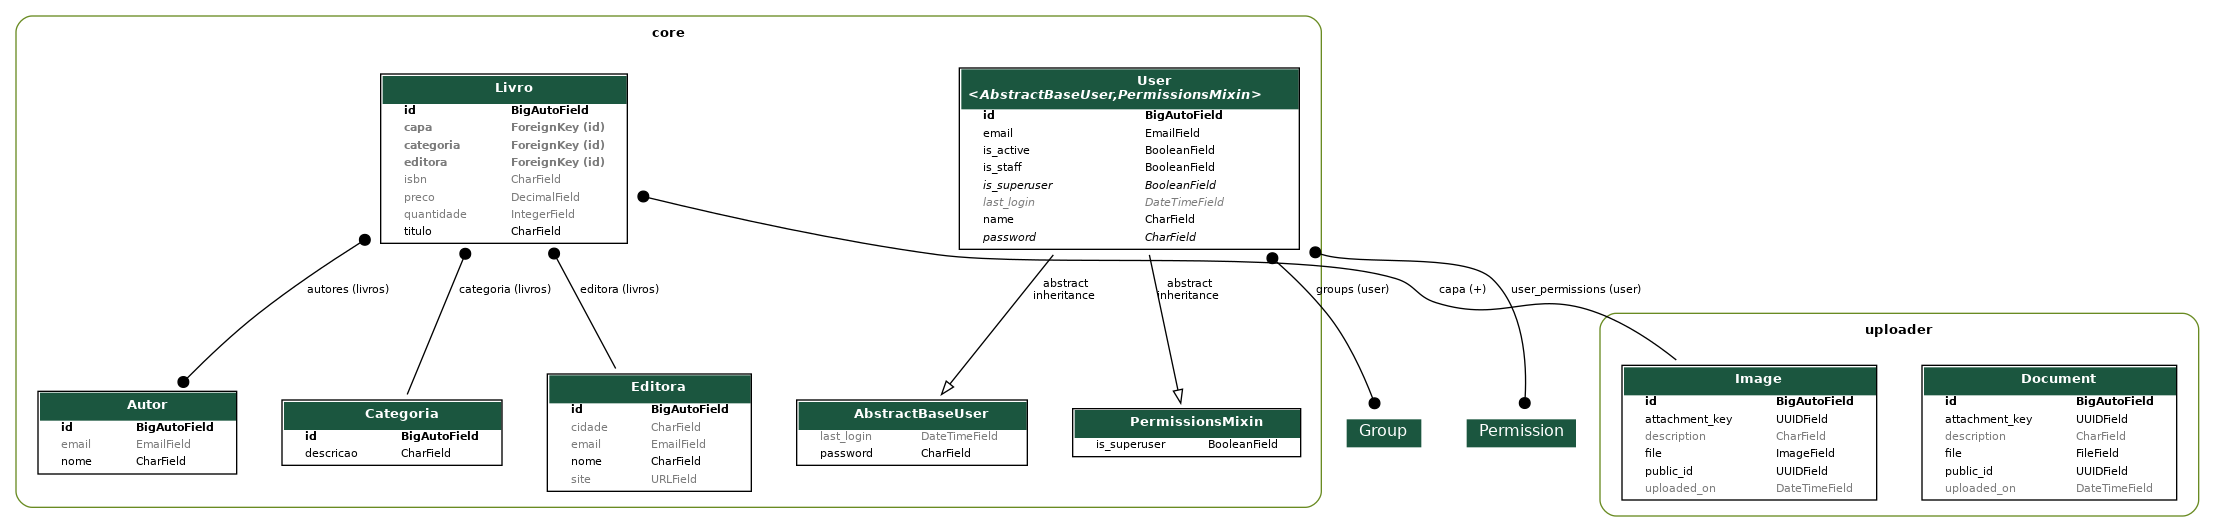
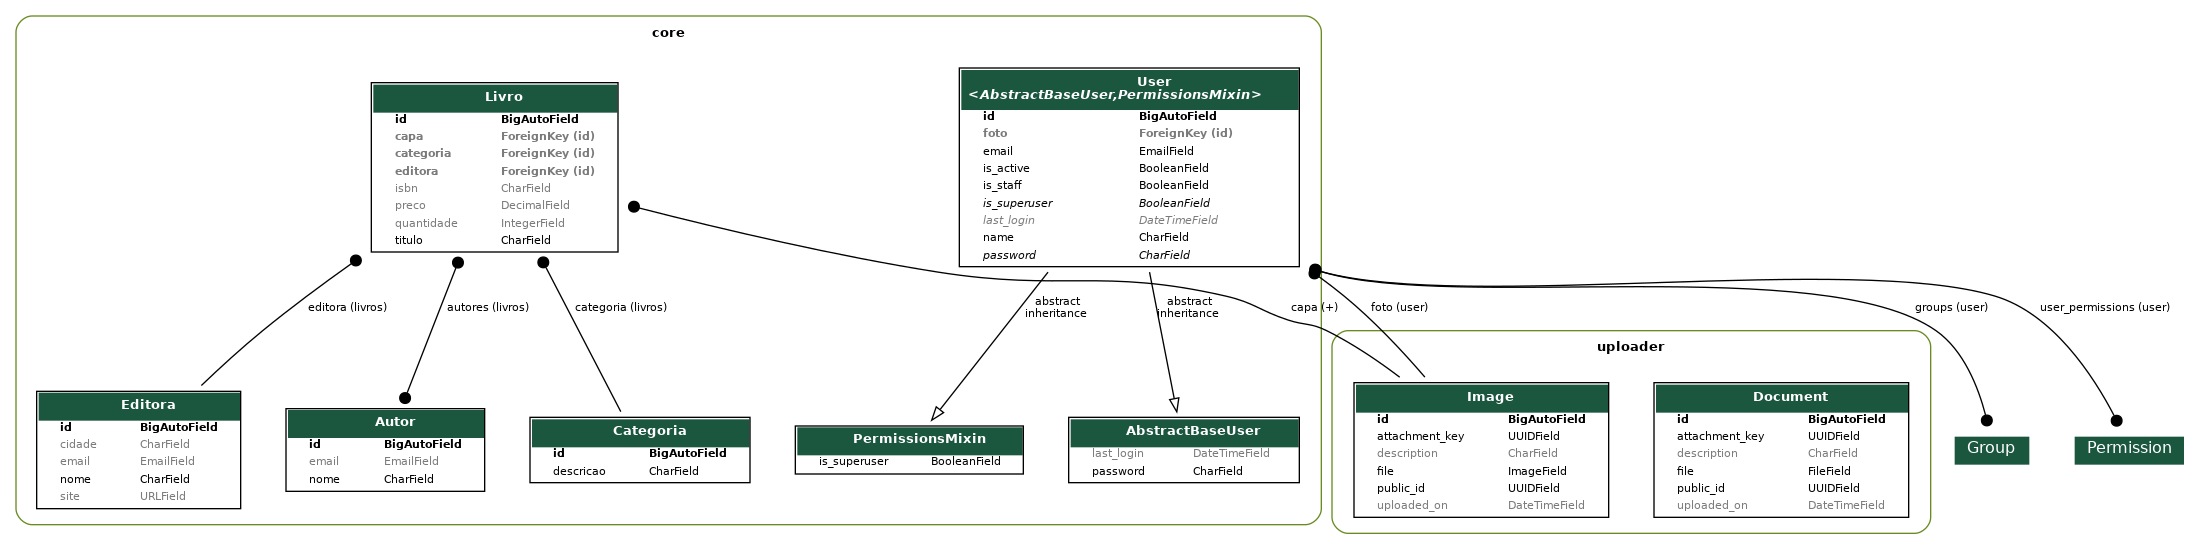
Foto de perfil do usuario

diff --git a/core/serializers/user.py b/core/serializers/user.py
@@ -1,9 +1,20 @@
-from rest_framework.serializers import ModelSerializer
+from rest_framework.serializers import ModelSerializer, SlugRelatedField
 
 from core.models import User
+from uploader.models import Image
+from uploader.serializers import ImageSerializer
 
 
 class UserSerializer(ModelSerializer):
+    foto_attachment_key = SlugRelatedField(
+        source="foto",
+        queryset=Image.objects.all(),
+        slug_field="attachment_key",
+        required=False,
+        write_only=True,
+    )
+    foto = ImageSerializer(required=False, read_only=True)
+
     class Meta:
         model = User
         fields = "__all__"

diff --git a/core/migrations/0022_user_foto.py b/core/migrations/0022_user_foto.py
@@ -1,0 +1,22 @@
+# Generated by Django 5.0.2 on 2024-08-26 14:00
+
+import django.db.models.deletion
+from django.db import migrations, models
+
+
+class Migration(migrations.Migration):
+
+    dependencies = [
+        ("core", "0021_alter_livro_categoria_alter_livro_editora"),
+        ("uploader", "0001_initial"),
+    ]
+
+    operations = [
+        migrations.AddField(
+            model_name="user",
+            name="foto",
+            field=models.ForeignKey(
+                blank=True, default=None, null=True, on_delete=django.db.models.deletion.SET_NULL, to="uploader.image"
+            ),
+        ),
+    ]

diff --git a/core/models/user.py b/core/models/user.py
@@ -9,6 +9,8 @@ from django.contrib.auth.models import (
 )
 from django.db import models
 
+from uploader.models import Image
+
 
 class UserManager(BaseUserManager):
     """Manager for users."""
@@ -41,6 +43,13 @@ class User(AbstractBaseUser, PermissionsMixin):
     name = models.CharField(max_length=255)
     is_active = models.BooleanField(default=True)
     is_staff = models.BooleanField(default=False)
+    foto = models.ForeignKey(
+        Image,
+        on_delete=models.SET_NULL,
+        null=True,
+        blank=True,
+        default=None,
+    )
 
     objects = UserManager()
 

diff --git a/core/admin.py b/core/admin.py
@@ -18,7 +18,7 @@ class UserAdmin(BaseUserAdmin):
     list_display = ["email", "name"]
     fieldsets = (
         (None, {"fields": ("email", "password")}),
-        (_("Personal Info"), {"fields": ("name",)}),
+        (_("Personal Info"), {"fields": ("name", "foto")}),
         (
             _("Permissions"),
             {
